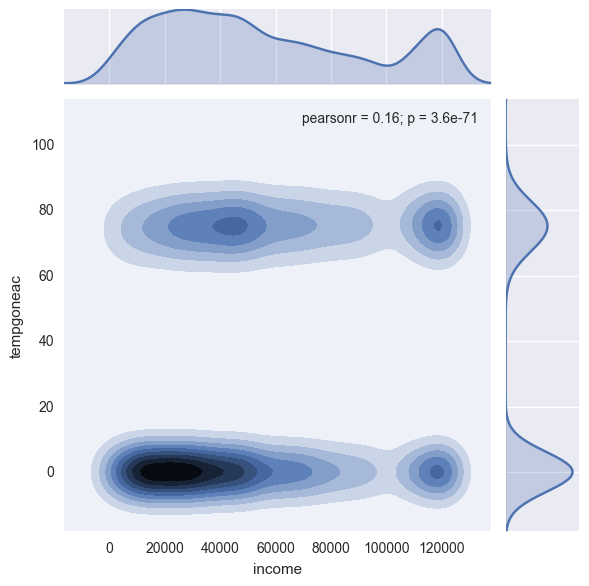
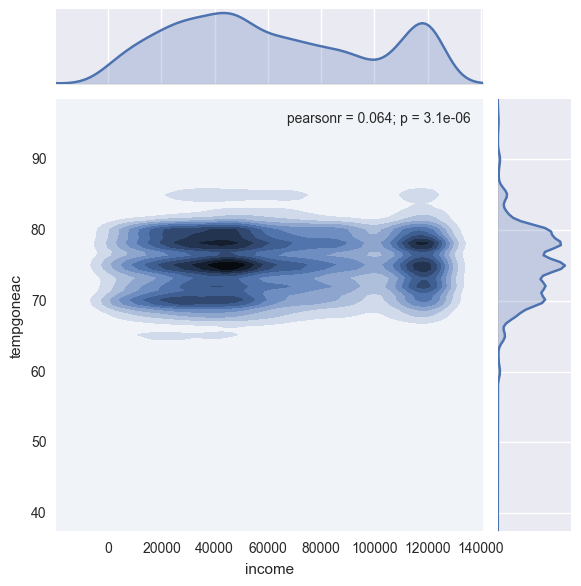
modified recs query script to work with GIS postgres file for recs.

diff --git a/data/recs/RECS STUFF/recs_plot_raw.py b/data/recs/RECS STUFF/recs_plot_raw.py
@@ -149,7 +149,7 @@ def stackedbar(df, VAR, TITLE):
 def kdeplot(df, VAR1, VAR2, TITLE):
 
 	#removes values of 0 from the dataset
-	temp_set = ['athome','temphome','tempgone','tempnite','temphomeac','tempconeac','tempniteac']
+	temp_set = ['athome','temphome','tempgone','tempnite','temphomeac','tempgoneac','tempniteac']
 	if VAR2 in temp_set:
 		df1 = df[df[VAR2] !=0]
 	else:
